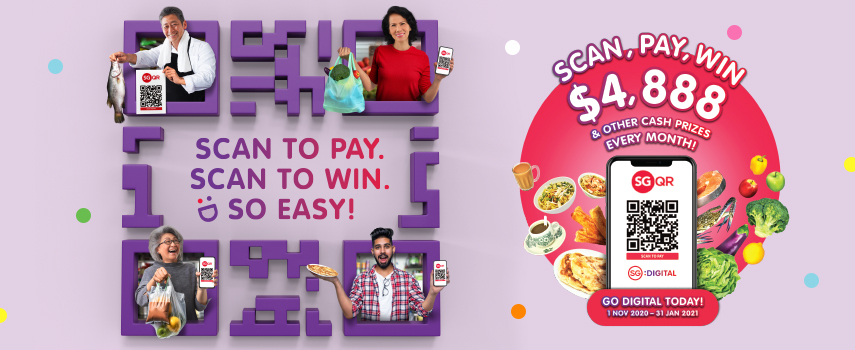
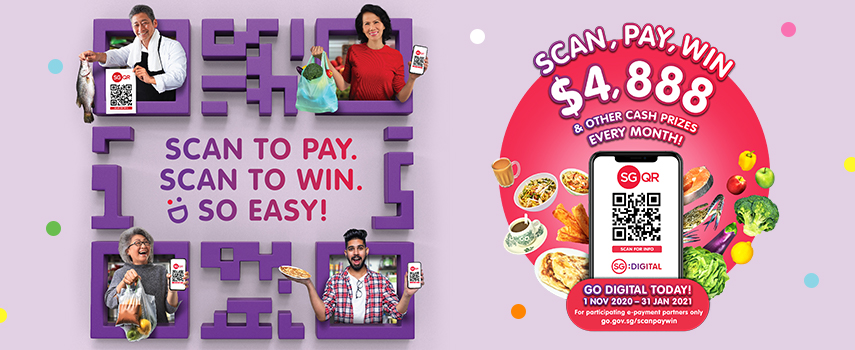
various updates for scanpaywin

diff --git a/_programmes/1c-tnc.md b/_programmes/1c-tnc.md
@@ -14,22 +14,21 @@ third_nav_title: Scan, Pay, Win
 <ol>
 	<li>The promotion (“Lucky Draw”) is organised by Info-communications Media Development Authority (“IMDA”) (which includes the Singapore Digital Office (“SDO”)) under the Hawkers Go Digital initiative (“HGD Initiative”) and is open to all individuals: </li>
 	<ol class="spw-letter">
-		<li>Winning Participants will be drawn from individuals who perform Qualifying Transactions (as defined in Clauses 1c to 1g) (“Winning Participants”).</li>
+		<li>Winning Participants will be drawn from individuals who perform Qualifying Transactions (as defined in Clauses 1c to 1g) (“Winning Participants”). The Winning Participants shall be drawn from NETS transaction database(s) in the presence of an IMDA/SDO appointed auditor.</li>
 		<li>There is no age restriction for eligibility, however, any Winning Participant who is under 18 years of age at the time of collection of prize monies must be accompanied by a parent/guardian during collection or provide written consent of a parent/guardian.;</li>
-		<li>Qualifying Transactions must be made using e-payments from the following participating payments schemes/wallets (TBC):</li>
+		<li>Qualifying Transactions must be made using e-payments from the following participating payments schemes/wallets:</li>
 		<ol class="spw-roman spw-bolded">
-			<li>DBS</li>
-			<li>Diners Club Singapore</li>
-			<li>EZ Link</li>
+			<li>DBS PayLah! and DBS digibank mobile apps</li>
+			<li>Diners SG Pay</li>
+			<li>EZ-Link Wallet</li>
 			<li>GrabPay</li>
-			<li>IAPPS</li>
 			<li>LiquidPay</li>
-			<li>NETS</li>
-			<li>OCBC</li>
-			<li>RazerPay</li>
-			<li>Singtel</li>
-			<li>UOB</li>
-			<li>VISA</li>
+			<li>NETS Pin, NETS Tap and NETS Pay</li>
+			<li>OCBC Pay Anyone</li>
+			<li>Razer Pay</li>
+			<li>Singtel Dash</li>
+			<li>SLIDE Wallet</li>
+			<li>UOB Mighty QR Pay</li>
 		</ol>
 		<li>Qualifying Transactions must be made during the following periods:</li>
 		<ol class="spw-roman spw-bolded">
@@ -43,7 +42,7 @@ third_nav_title: Scan, Pay, Win
 			<li>registered stallholders at the HDB coffeeshops and</li>
 			<li>registered stallholders at the JTC industrial canteens</li>
 		</ol>
-		<li>Qualifying Transactions must be <span class="spw-bolded">at least S$1.00</span>.  Each Qualifying Transaction can qualify for multiple chances. <span class="spw-bolded">Each S$1.00 spent (up to a limit of S$100.00) will qualify for one chance</span>.</li>
+		<li>Qualifying Transactions must be at least S$1.00.  Each Qualifying Transaction can qualify for multiple chances. Each S$1.00 spent (up to a limit of S$100.00) will qualify for one chance.</li>
 		<li>Qualifying Transactions from the participating payments schemes/wallets can be made via SGQR or payment terminals.</li>
 		<li>IMDA/SDO may set their own internal policies relating to the eligibility of their staff to win prizes under the Lucky Draw. Such internal policies, relating to their own staff, may also be set by participating schemes/wallets and or other service providers related to the Lucky Draw.</li>
 		<li>Winning stallholders (“Winning Stallholders”) will be determined as follows: </li>
@@ -64,7 +63,7 @@ third_nav_title: Scan, Pay, Win
 		<li>Monthly Winning Participant - First prize of S$4,888</li>
 		<li>Monthly Winning Participant - Runner-up prize of S$2,888</li>
 		<li>Monthly Winning Participant - 40 consolation prizes of S$500 each</li>
-		<li>Monthly Winning Stallholder – 42 prizes of S$500, each based on where the Winning Participant’s Qualifying Transaction took place</li>
+		<li>Monthly Winning Stallholder – 42 prizes of S$500 each based on where the Winning Participant’s Qualifying Transaction took place</li>
 	</ol>
 	<li>Monthly Qualifying Period (each a “Qualifying Period”) and Draw Dates:</li>
 	<ol class="spw-letter">
@@ -79,19 +78,19 @@ third_nav_title: Scan, Pay, Win
 <ol start="4">
 	<li>Selection of Winners</li>
 	<ol class="spw-letter">
-		<li>Winning Participants will be selected at random by computerised means in the presence of a public accountant.</li>
+		<li>Winning Participants will be selected at random from NETS transaction database(s) by computerised means in the presence of an IMDA/SDO appointed auditor.</li>
 		<li>Winning Participants are able to win prizes over multiple monthly draws during the applicable Qualifying Period.</li>
 		<li>Winning Participants are limited to a maximum of one (1) prize per month based on the particular payment scheme/wallet which they have used.</li>
 	</ol>
 </ol>
 
-*The above conditions and restrictions do not apply in respect of Winning Stallholders.*
+The above conditions and restrictions do not apply in respect of Winning Stallholders.
 
 <ol start="5">
 	<li>Notification of Winners</li>
 	<ol class="spw-letter">
 		<li>Winning Participants will be notified by the respective payment schemes/wallets. Winning Stallholders will be notified by IMDA.</li> 
-		<li>Winning Participants and Winning Stallholders shall have fourteen (14) working days from the date of being contacted to provide their full contact information and consent that such information (appropriately masked) may be published by IMDA/SDO on the Lucky Draw website (URL TBC).</li> 
+		<li>Winning Participants and Winning Stallholders shall have fourteen (14) working days from the date of being contacted to provide their full contact information and consent that such information (appropriately masked) may be published by IMDA/SDO on the Lucky Draw website (<a href="https://go.gov.sg/scanpaywin" target="_blank">go.gov.sg/scanpaywin</a>).</li> 
 		<li>Winning Participants and Winning Stallholders who do not provide their full contact information or do not consent to the publication of their information, shall be deemed to have rejected their prizes, which shall be donated to charity.</li> 
 		<li>Crediting of the monthly prizes will be done within twenty (20) working days after the period where the Winning Participants have been notified and have consented to the publication of their information as set out above.</li>
 	</ol>
@@ -102,10 +101,10 @@ third_nav_title: Scan, Pay, Win
 
 <ol start="7">
 	<li>Participation in the Lucky Draw pursuant to the HGD Initiative is subject to these T&Cs. Usage of the UePS during the Qualifying Period shall be deemed as consent to participate in this Lucky Draw and acceptance of these T&Cs, including any amendments, additions, replacements, variations and modifications thereto.</li> 
-	<li>Participants (including stallholders who have registered for the UePS) agree to be bound by and to comply with these T&Cs. Non-compliance with or breach of any of these T&Cs may disqualify a participant at any stage of the Lucky Draw, and any prize monies won by the participant may be forfeited, withheld, withdrawn or reclaimed by IMDA/SDO upon written demand.</li> 
+	<li>Participants agree to be bound by and to comply with these T&Cs. Non-compliance with or breach of any of these T&Cs may disqualify a participant at any stage of the Lucky Draw, and any prize monies won by the participant may be forfeited, withheld, withdrawn or reclaimed by IMDA/SDO upon written demand.</li> 
 	<li>In the event of any erroneous payments to Winning Participants or Winning Stallholders are made, or in the event that any misconduct, false declaration, dishonesty or misrepresentation on the part of a participant is subsequently discovered, any prize monies won by the Winning Participants or Winning Stallholders may be forfeited, withheld, withdrawn or reclaimed by the participating payment schemes/wallets and/or by IMDA/SDO upon written demand.</li> 
 	<li>In the event of any inconsistency between these T&Cs and the terms of any brochure, marketing or promotional material relating to the Lucky Draw, these T&Cs shall prevail.</li>
-	<li>IMDA/SDO may at any time at its sole and absolute discretion, without notice or assigning any reason thereof: (a) substitute, withdraw, add to or alter any of the prizes; (b) suspend, withdraw or terminate the Lucky Draw; or (c) delete, vary, supplement, amend or modify these T&Cs in such manner as IMDA/SDO deems fit, including without limitation, the eligibility of participants, the bases and methods of identification of any Winning Participant(s) and any dates in connection with the Lucky Draw, the Lucky Draw period, number of draws and Lucky Draw dates. IMDA/SDO shall not, to the extent permitted by law, be liable to for any claims, costs, expenses, loss or damage suffered by any person as a result of the aforementioned changes. Any amendments to the T&Cs will be posted on the relevant IMDA/SDO website [URL TBC].</li> 
+	<li>IMDA/SDO may at any time at its sole and absolute discretion, without notice or assigning any reason thereof: (a) substitute, withdraw, add to or alter any of the prizes; (b) suspend, withdraw or terminate the Lucky Draw; or (c) delete, vary, supplement, amend or modify these T&Cs in such manner as IMDA/SDO deems fit, including without limitation, the eligibility of participants, the bases and methods of identification of any Winning Participant(s) and any dates in connection with the Lucky Draw, the Lucky Draw period, number of draws and Lucky Draw dates. IMDA/SDO shall not, to the extent permitted by law, be liable to for any claims, costs, expenses, loss or damage suffered by any person as a result of the aforementioned changes. Any amendments to the T&Cs will be posted on the relevant IMDA/SDO website (<a href="https://go.gov.sg/scanpaywin" target="_blank">go.gov.sg/scanpaywin</a>)</li> 
 	<li>IMDA/SDO accepts no responsibility for any Qualifying Transactions that are delayed, misdirected, or for whatsoever reason (including but not limited to incomplete payment details, technical glitches, system or infrastructure failures, delays in transmission etc) have failed to be included in the Lucky Draw.</li> 
 	<li>By participating in the Lucky Draw, participants are deemed to have agreed with any data protection and privacy policy of IMDA/SDO with regards to the collection, processing, use, disclosure of any personal data which it may obtain during this campaign. Participants are also deemed to have consented to (i) IMDA/SDO collecting, processing or using their personal data and (ii) being contacted in connection with the Lucky Draw.</li>  
 	<li>IMDA/SDO’s decision on all matters regarding the Lucky Draw is final, conclusive and binding, and no enquiries or appeals, either verbal or written, shall be entertained. All participants including the Winning Participants and Winning Stallholders shall accept and abide by any and all decisions made by SDO concerning, without limitation, these T&Cs, the rules, procedures and regulations of the Lucky Draw, the award of prizes and any other matters relating to the Lucky Draw.</li>

diff --git a/_programmes/1b-faq.md b/_programmes/1b-faq.md
@@ -29,7 +29,7 @@ You will receive 3 chances and 10 chances respectively.
 You will receive 100 chances for each transaction, as there is a cap of 100 chances per transaction.
 
 **I have been informed that I am a winner for one of the prizes this month. Do I qualify for other prizes within the month?**  
-You may be eligible to win another prize within the same month if that transaction drawn was made with another different participating Bank/e-wallet that is part of the Unified e-Payment System (UePS).
+You may be eligible to win another prize within the same month if that transaction drawn was made with another different participating Bank/e-wallet that is part of the Unified e-Payment Solution (UePS).
 
 **I have been informed that I am a winner for one of the prizes this month. Do I qualify for other prizes for the following months?**  
 You may be eligible to win again if your qualifying transactions are drawn for any of the other qualifying months.
@@ -42,20 +42,20 @@ No, you won’t qualify for the Lucky Draw.
 
 ### Draw Dates
 
-**What are the draw dates?**  
-The draw dates are as follows:
+**When are the draw dates and where will the draws be held?**  
+The draws will be held at NETS’ office at 298 Tiong Bahru Road, #06-01, Singapore 168730 on the date and time as follows:
 
-1st draw: 10am, 22 Dec 2020  
-2nd draw: 10am, 26 Jan 2021  
-3rd draw: 10am, 24 Feb 2021  
+1st draw: 10am, 22 Dec 2020
+2nd draw: 10am, 26 Jan 2021
+3rd draw: 10am, 24 Feb 2021 
 
 ### Notification and Crediting of Prizes
 
 **When and how will I be notified of the Lucky Draw results?**  
-The results will be published on [SDO’s website](#). Winners will also be notified by the respective payment schemes/wallets that they have used via phone and/or email and/or any other means deemed suitable within 20 working days after the draw. 
+The results will be published on SDO’s website [go.gov.sg/scanpaywin](https://go.gov.sg/scanpaywin). Winners will also be notified by the respective payment schemes/wallets that they have used via phone and/or email and/or any other means deemed suitable within 20 working days after the draw. 
 
 **How will I receive my prize monies if I am the winner?**  
-You will receive the prize monies by one of the following methods - thru direct Bank Transfer, PayNow, Cheque, electronic bank transfer, or any other preferred payment method offered by the payment scheme partner which you made the winning transaction with. 
+You will receive the prize monies by one of the following methods - cash, chequethru direct Bank Transfer, PayNow, Cheque or electronic bank transfer or any other preferred payment method offered by and agreed with the payment scheme partner which you made the winning transaction with. 
 
 **How would Winning Stallholders get picked?**  
 Winning Stallholders are picked based on where the winning transactions took place. 
@@ -70,5 +70,8 @@ Your full name and/or partially masked contact information (e.g. mobile number, 
 
 ### More Information
 
+**Who is the organiser of the Lucky Draw?**
+IMDA is the organiser of the Lucky Draw. IMDA’s office is located at 10 Pasir Panjang Road #03-01 Mapletree Business City Singapore 117438.
+
 **Where can I get more information about the Lucky Draw?**  
-You can visit our website at [www.xxx.com](#) for the full Terms & Conditions or call IMDA/SDO at xxxx xxxx for further assistance.
+You can visit our website at [go.gov.sg/scanpaywin](https://go.gov.sg/scanpaywin) for the full Terms & Conditions or call IMDA/SDO at 6377 3800 for further assistance.

diff --git a/_programmes/1a-scanpaywin.md b/_programmes/1a-scanpaywin.md
@@ -9,13 +9,17 @@ third_nav_title: Scan, Pay, Win
 
 ![Scan, Pay, Win](/images/programmes/IMDA_SPW_KV.jpg)
 
+## Scan, Pay, Win Lucky Draw
+
 ### Let's go digital today!
 
-Paying for wet market buys or yummy hawker foods is not just easier now, but also more rewarding! Look out for the Scan, Pay, Win sticker and simply scan the SGQR code to e-pay at participating stalls. You could win up to $4,888 and more every month! Stallholders of winning transactions will also win $500!
+Paying for wet market buys or hawker foods is not just easier now, but also more rewarding! Look out for the Scan, Pay, Win sticker and simply scan the SGQR code to e-pay at participating stalls*. You could win up to $4,888 and more every month! Stallholders of winning transactions will also win $500! There's no better time to go digital!
+
+<sup>*participating stalls at NEA hawker centres, HDB coffeeshops and JTC industrial canteens</sup>
 
 ### Not sure how to e-pay?
 
-Visit your nearest SG Digital community hub and enjoy one-on-one guidance. You’ll also get to learn a whole bunch of other wonderful digital skills too!
+Visit your nearest SG Digital community hub and enjoy one-on-one guidance from our Digital ambassador. They are located at selected community clubs, centres and public libraries. You'll also get to learn a whole bunch of other wonderful digital skills.
 
 ![Here's what you can win every month!](/images/programmes/IMDA_SPW_Prizes.jpg)
 
@@ -27,4 +31,4 @@ If you’re a participating stallholder and any of the monthly winners made an S
 
 ### E-pay with these participating apps on your mobile phone 
 
-Coming soon!
+![Mobile Apps](/images/programmes/IMDA_SPW_Apps_2.jpg)
